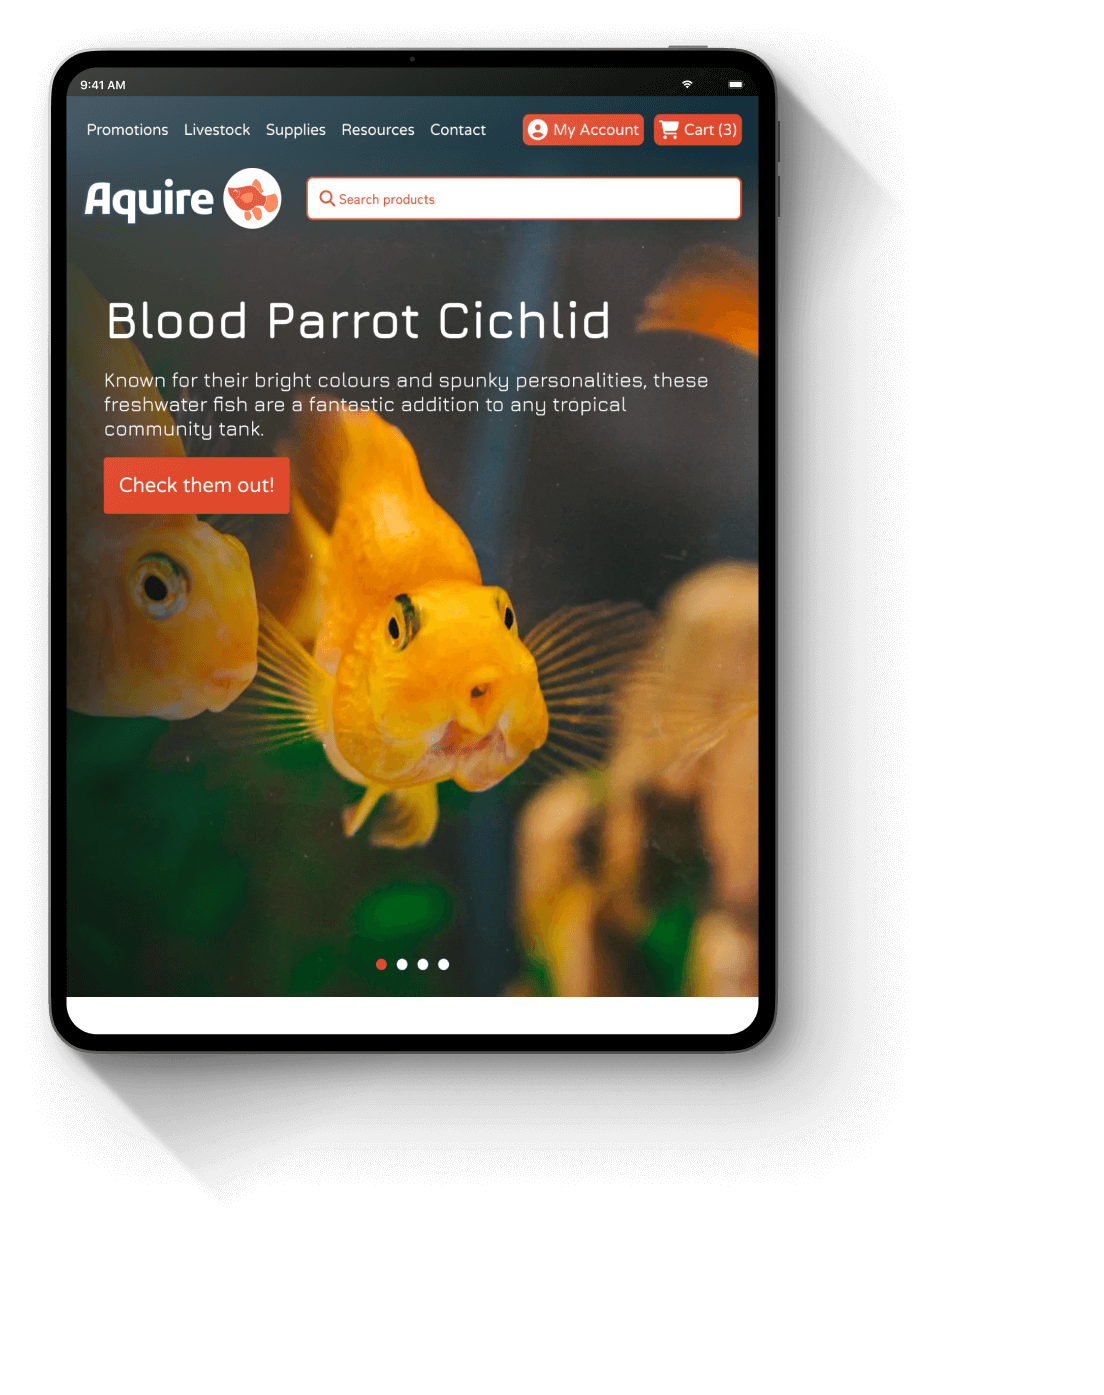
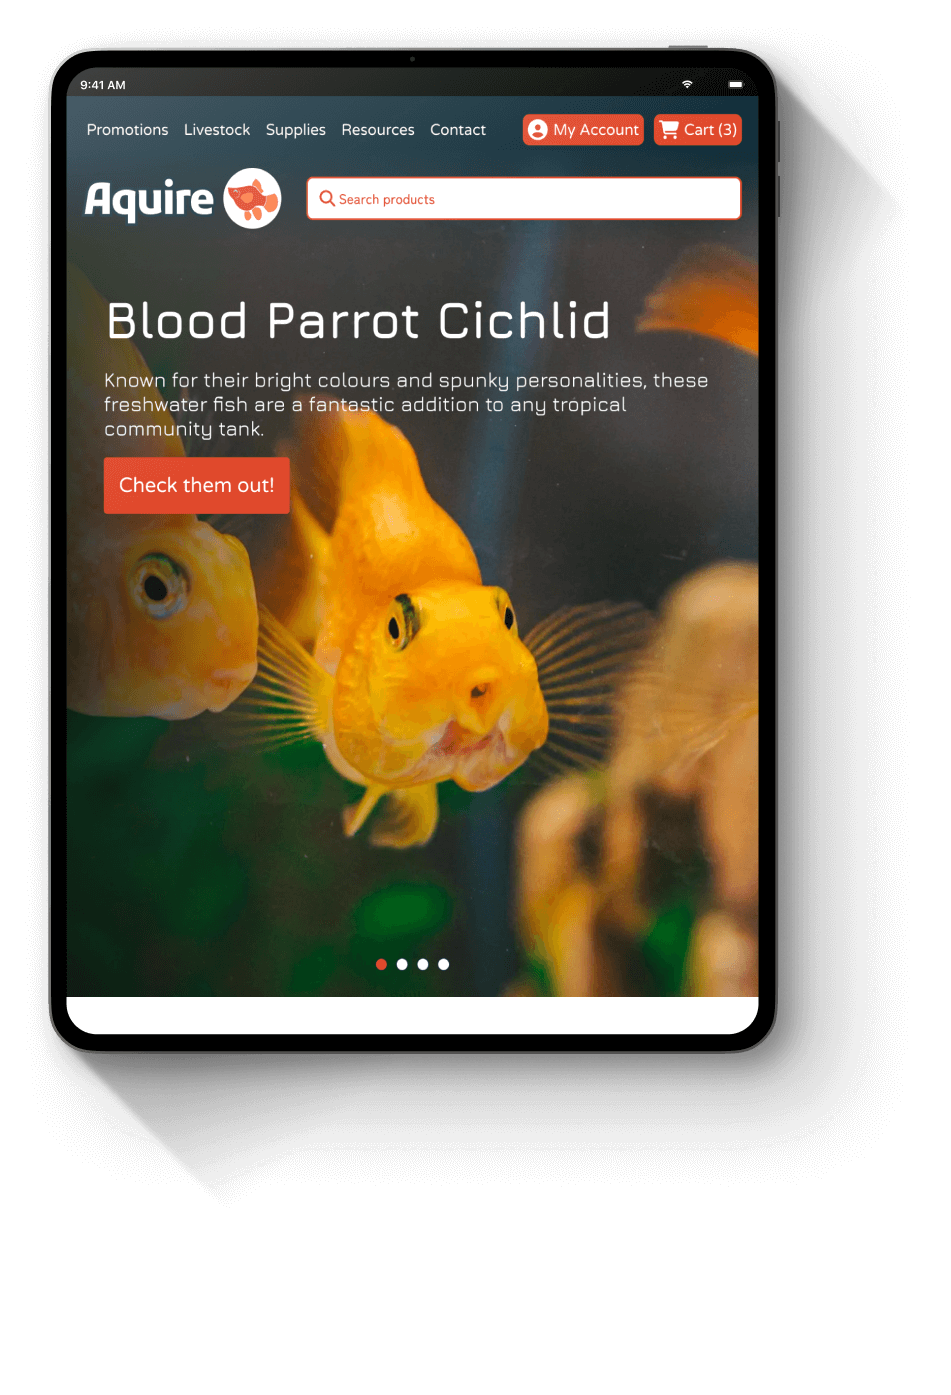
Mockup Styling
> Added needed classes and divs to the HTML
> Added styling for the mockups for Aquire's page (that can be used for all mockup image lists)

diff --git a/aquire.html b/aquire.html
@@ -198,7 +198,7 @@
 
           <p>Add to cart button, Desktop + Mobile versions of the product listing, and the different settings for a product filter button.</p>
 
-          <a href="https://www.figma.com/proto/wC4cv1RbvxDBDypbie9FeJ/Aquire-V2?node-id=1-2&t=ZeW1sPQwA9lxypX0-1&scaling=scale-down&page-id=0%3A1&starting-point-node-id=1%3A2&show-proto-sidebar=1" target="_blank">View the Figma protoype here!</a>
+          <a class="button" href="https://www.figma.com/proto/wC4cv1RbvxDBDypbie9FeJ/Aquire-V2?node-id=1-2&t=ZeW1sPQwA9lxypX0-1&scaling=scale-down&page-id=0%3A1&starting-point-node-id=1%3A2&show-proto-sidebar=1" target="_blank">View the Figma protoype here!</a>
         </div>
 
         <hr>
@@ -210,84 +210,91 @@
 
           <h4>Mobile</h4>
           
-          <picture>
-            <source srcset="img/aquire/mobile-1-sm.png" media="(max-width:767px)">
-            <img src="img/aquire/mobile-1.png" alt="aquire tablet mockup">
-          </picture>
+          <div class="mockup-wrapper-mobile">
+            <picture>
+              <source srcset="img/aquire/mobile-1-sm.png" media="(max-width:767px)">
+              <img src="img/aquire/mobile-1.png" alt="aquire tablet mockup">
+            </picture>
 
-          <picture>
-            <source srcset="img/aquire/mobile-2-sm.png" media="(max-width:767px)">
-            <img src="img/aquire/mobile-2.png" alt="aquire tablet mockup">
-          </picture>
+            <picture>
+              <source srcset="img/aquire/mobile-2-sm.png" media="(max-width:767px)">
+              <img src="img/aquire/mobile-2.png" alt="aquire tablet mockup">
+            </picture>
 
-          <picture>
-            <source srcset="img/aquire/mobile-3-sm.png" media="(max-width:767px)">
-            <img src="img/aquire/mobile-3.png" alt="aquire tablet mockup">
-          </picture>
+            <picture>
+              <source srcset="img/aquire/mobile-3-sm.png" media="(max-width:767px)">
+              <img src="img/aquire/mobile-3.png" alt="aquire tablet mockup">
+            </picture>
 
-          <picture>
-            <source srcset="img/aquire/mobile-4-sm.png" media="(max-width:767px)">
-            <img src="img/aquire/mobile-4.png" alt="aquire tablet mockup">
-          </picture>
+            <picture>
+              <source srcset="img/aquire/mobile-4-sm.png" media="(max-width:767px)">
+              <img src="img/aquire/mobile-4.png" alt="aquire tablet mockup">
+            </picture>
 
-          <picture>
-            <source srcset="img/aquire/mobile-5-sm.png" media="(max-width:767px)">
-            <img src="img/aquire/mobile-5.png" alt="aquire tablet mockup">
-          </picture>
+            <picture>
+              <source srcset="img/aquire/mobile-5-sm.png" media="(max-width:767px)">
+              <img src="img/aquire/mobile-5.png" alt="aquire tablet mockup">
+            </picture>
+          </div>
 
           <h4>Tablet</h4>
 
-          <picture>
-            <source srcset="img/aquire/tablet-1-sm.png" media="(max-width:767px)">
-            <img src="img/aquire/tablet-1.png" alt="aquire tablet mockup">
-          </picture>
+          <div class="mockup-wrapper-tablet">
+            <picture>
+              <source srcset="img/aquire/tablet-1-sm.png" media="(max-width:767px)">
+              <img src="img/aquire/tablet-1.png" alt="aquire tablet mockup">
+            </picture>
 
-          <picture>
-            <source srcset="img/aquire/tablet-2-sm.png" media="(max-width:767px)">
-            <img src="img/aquire/tablet-2.png" alt="aquire tablet mockup">
-          </picture>
+            <picture>
+              <source srcset="img/aquire/tablet-2-sm.png" media="(max-width:767px)">
+              <img src="img/aquire/tablet-2.png" alt="aquire tablet mockup">
+            </picture>
 
-          <picture>
-            <source srcset="img/aquire/tablet-3-sm.png" media="(max-width:767px)">
-            <img src="img/aquire/tablet-3.png" alt="aquire tablet mockup">
-          </picture>
+            <picture>
+              <source srcset="img/aquire/tablet-3-sm.png" media="(max-width:767px)">
+              <img src="img/aquire/tablet-3.png" alt="aquire tablet mockup">
+            </picture>
 
-          <picture>
-            <source srcset="img/aquire/tablet-4-sm.png" media="(max-width:767px)">
-            <img src="img/aquire/tablet-4.png" alt="aquire tablet mockup">
-          </picture>
+            <picture>
+              <source srcset="img/aquire/tablet-4-sm.png" media="(max-width:767px)">
+              <img src="img/aquire/tablet-4.png" alt="aquire tablet mockup">
+            </picture>
 
-          <picture>
-            <source srcset="img/aquire/tablet-5-sm.png" media="(max-width:767px)">
-            <img src="img/aquire/tablet-5.png" alt="aquire tablet mockup">
-          </picture>
+            <picture>
+              <source srcset="img/aquire/tablet-5-sm.png" media="(max-width:767px)">
+              <img src="img/aquire/tablet-5.png" alt="aquire tablet mockup">
+            </picture>
+          </div>
 
           <h4>Desktop</h4>
 
-          <picture>
-            <source srcset="img/aquire/desktop-1-sm.png" media="(max-width:767px)">
-            <img src="img/aquire/desktop-1.png" alt="aquire tablet mockup">
-          </picture>
+            <div class="mockup-wrapper-desktop">
+            <picture>
+              <source srcset="img/aquire/desktop-1-sm.png" media="(max-width:767px)">
+              <img src="img/aquire/desktop-1.png" alt="aquire tablet mockup">
+            </picture>
 
-          <picture>
-            <source srcset="img/aquire/desktop-2-sm.png" media="(max-width:767px)">
-            <img src="img/aquire/desktop-2.png" alt="aquire tablet mockup">
-          </picture>
+            <picture>
+              <source srcset="img/aquire/desktop-2-sm.png" media="(max-width:767px)">
+              <img src="img/aquire/desktop-2.png" alt="aquire tablet mockup">
+            </picture>
 
-          <picture>
-            <source srcset="img/aquire/desktop-3-sm.png" media="(max-width:767px)">
-            <img src="img/aquire/desktop-3.png" alt="aquire tablet mockup">
-          </picture>
+            <picture>
+              <source srcset="img/aquire/desktop-3-sm.png" media="(max-width:767px)">
+              <img src="img/aquire/desktop-3.png" alt="aquire tablet mockup">
+            </picture>
 
-          <picture>
-            <source srcset="img/aquire/desktop-4-sm.png" media="(max-width:767px)">
-            <img src="img/aquire/desktop-4.png" alt="aquire tablet mockup">
-          </picture>
+            <picture>
+              <source srcset="img/aquire/desktop-4-sm.png" media="(max-width:767px)">
+              <img src="img/aquire/desktop-4.png" alt="aquire tablet mockup">
+            </picture>
 
-          <picture>
-            <source srcset="img/aquire/desktop-5-sm.png" media="(max-width:767px)">
-            <img src="img/aquire/desktop-5.png" alt="aquire tablet mockup">
-          </picture>
+            <picture>
+              <source srcset="img/aquire/desktop-5-sm.png" media="(max-width:767px)">
+              <img src="img/aquire/desktop-5.png" alt="aquire tablet mockup">
+            </picture>
+          </div>
+
         </div>
       </div>
     </main>

diff --git a/css/style.css b/css/style.css
@@ -25,6 +25,7 @@ body {
 
 main {
   padding-top: 175px;
+  overflow: hidden;
 }
 
 main#work {
@@ -94,6 +95,10 @@ img {
 ul {
   padding: 0 15px;
   margin: 0;
+}
+
+hr {
+  margin: 20px 0;
 }
 
 header ul, footer ul {
@@ -313,6 +318,32 @@ nav > ul > li > a {
 #typography-aquire {
   font-family: "Zen Maru Gothic", serif;
   font-weight: 300;
+}
+
+/*********************** General Project Page **********************/
+
+[class*="mockup-wrapper"] {
+  display: flex;
+  flex-wrap: wrap;
+  margin-bottom: 60px;
+}
+
+[class*="mockup-wrapper"] picture {
+  display: block;
+  margin-right: -15%;
+  margin-bottom: -18%;
+}
+
+.mockup-wrapper-tablet picture {
+  margin-right: -10%;
+}
+
+.mockup-wrapper-tablet img {
+  max-width: 600px;
+}
+
+.mockup-wrapper-desktop picture {
+  margin-bottom: -40%;
 }
 
 /*********************** SVG Animation **********************/
